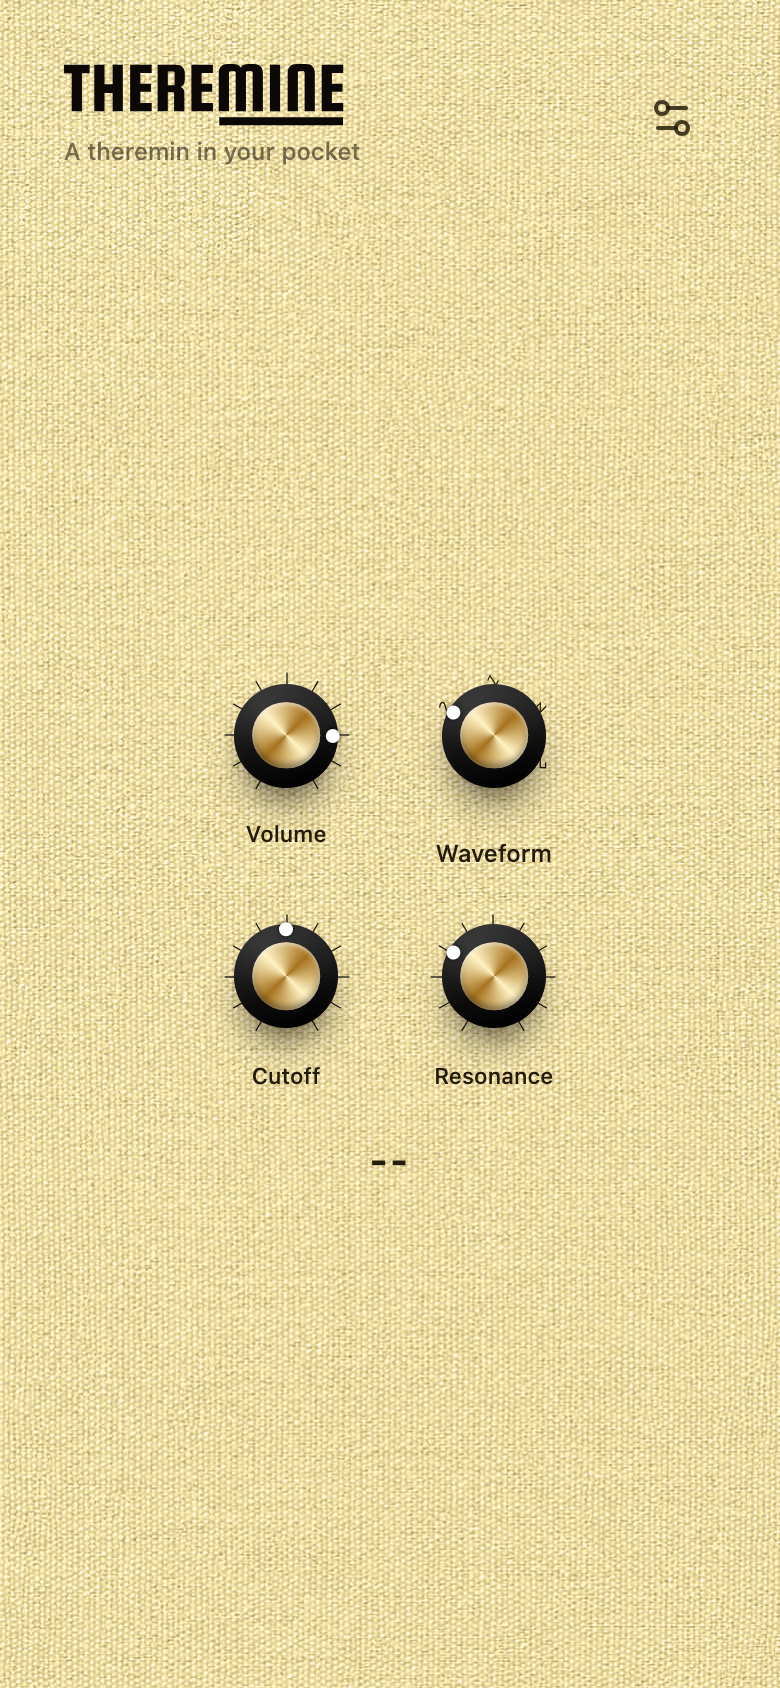
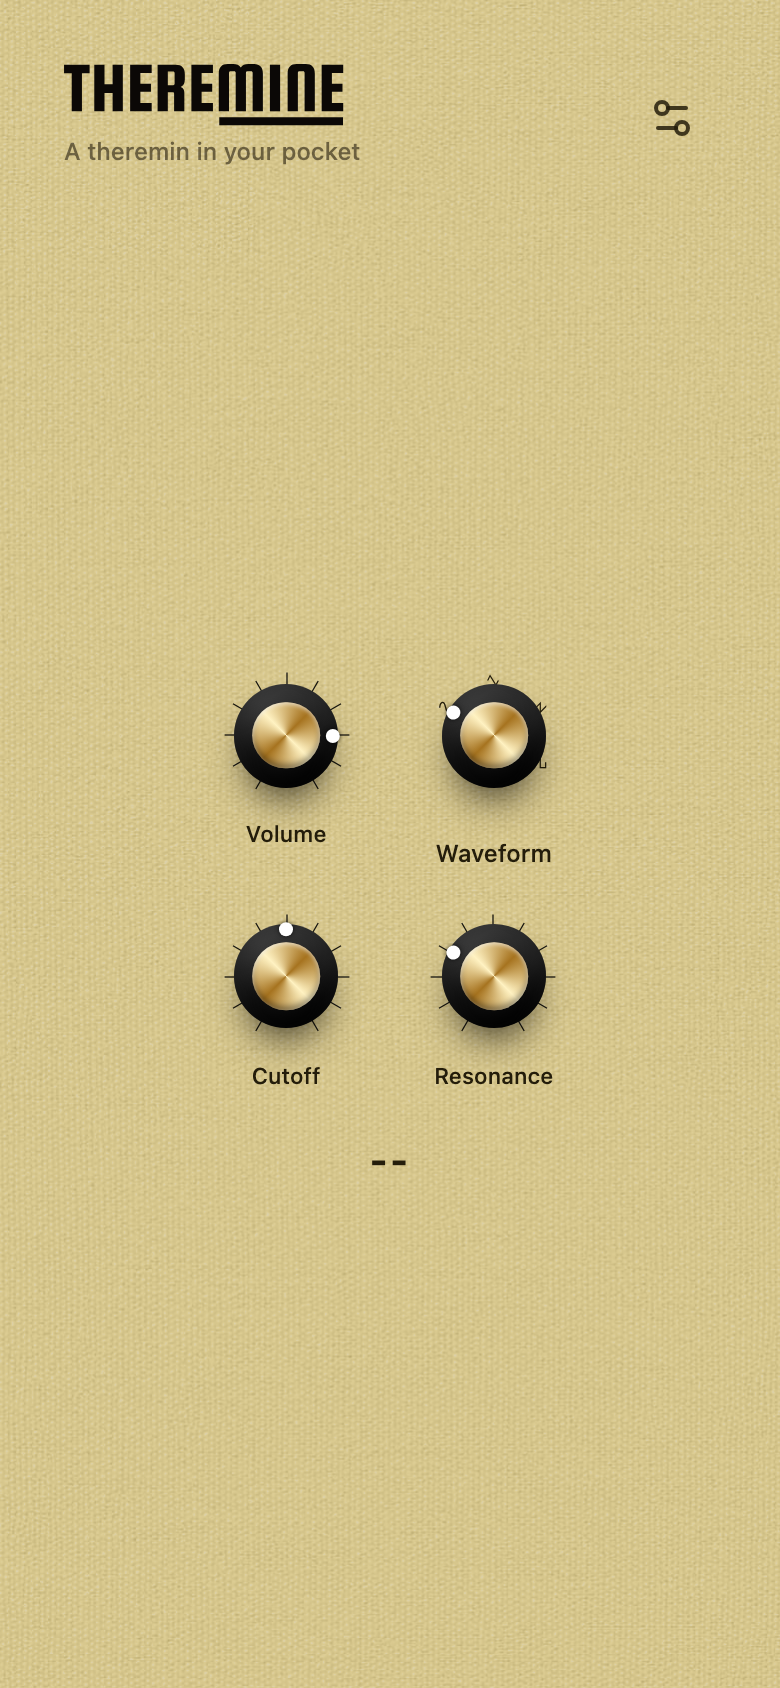
Tone down texture overlay to restore the gold background
Fade the luminosity overlay to opacity 0.3 so #cdbd83 stays dominant and the
fabric only adds the weave; refresh the portfolio screenshots to match.

diff --git a/src/style.css b/src/style.css
@@ -44,6 +44,10 @@ body::before {
   background-size: 425px auto; /* half the 851px source — it's a 2x asset */
   background-repeat: repeat;
   mix-blend-mode: luminosity;
+  /* The fabric is much lighter than the gold base; at full strength luminosity
+     washes the colour out. Fade the overlay so #cdbd83 stays dominant and the
+     texture only adds the weave. */
+  opacity: 0.3;
   pointer-events: none;
   z-index: 0;
 }